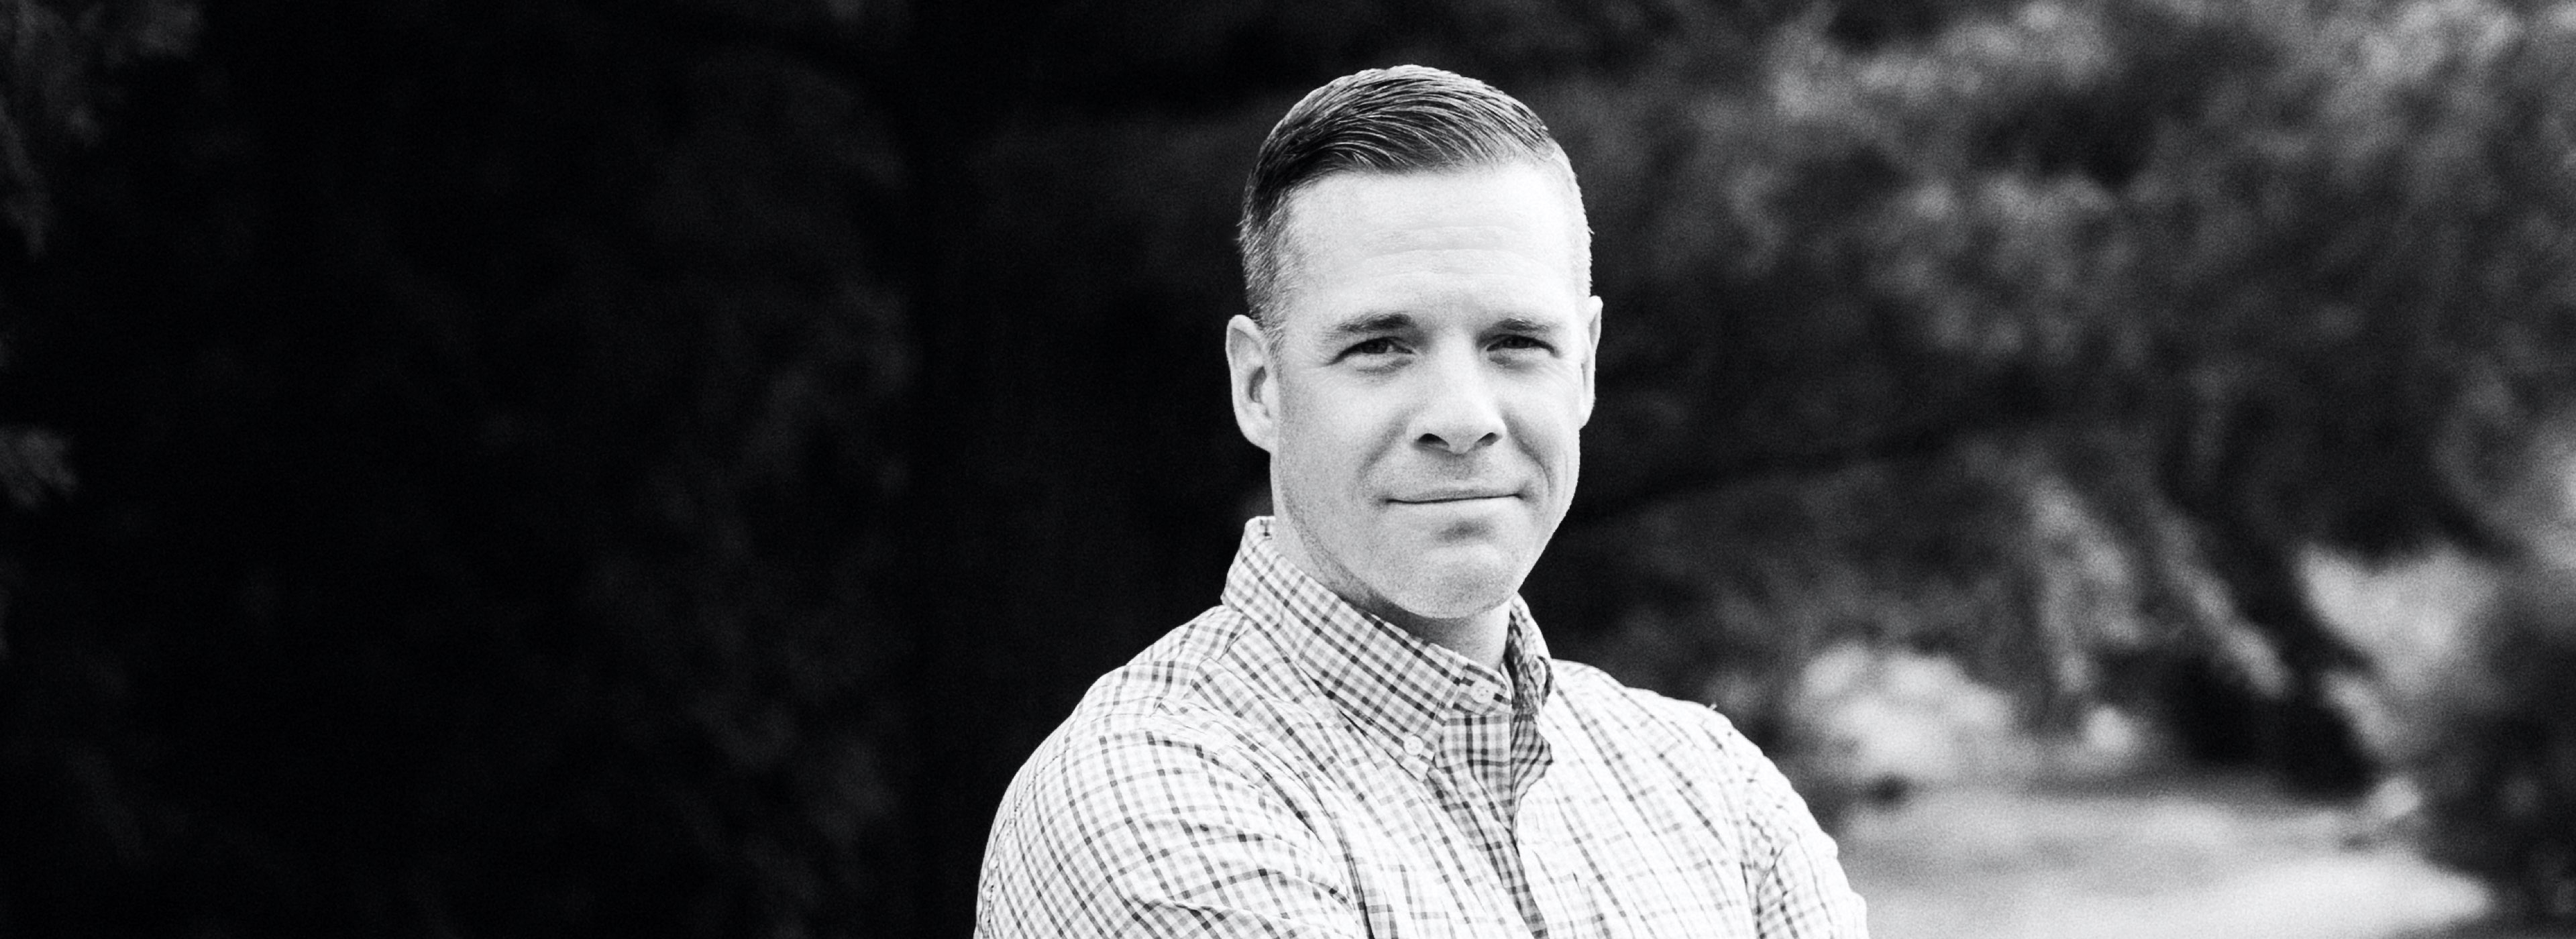
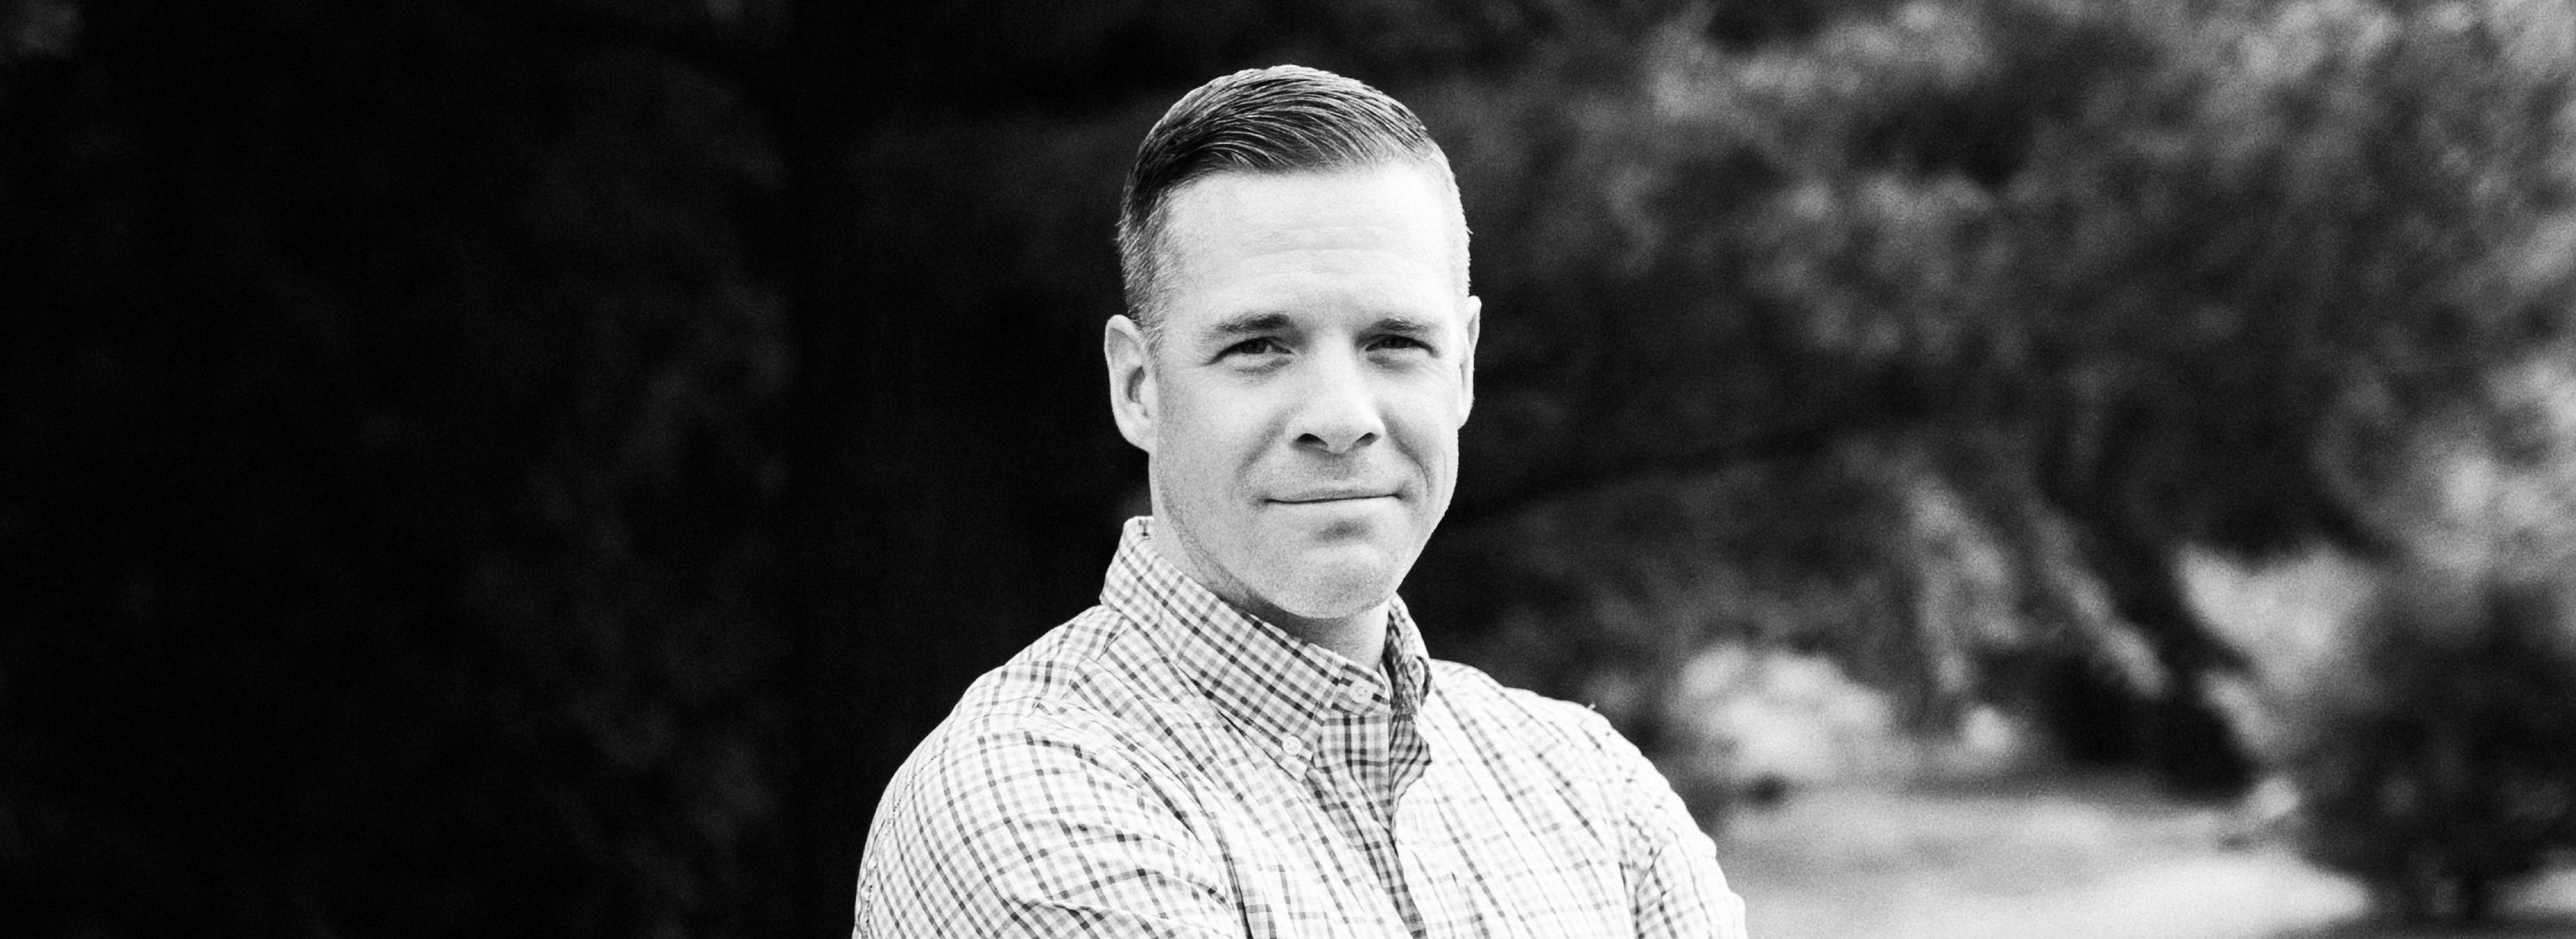
swapped hero / headshot photos

diff --git a/src/pages/index.js b/src/pages/index.js
@@ -13,21 +13,21 @@ const HomeBanner = (
   <StaticQuery
     query={graphql`
       query {
-        desktop: file(relativePath: { eq: "josh-hero.jpg" }) {
+        desktop: file(relativePath: { eq: "ahlberg-family.jpg" }) {
           childImageSharp {
             fluid(maxWidth: 1920, quality: 70) {
               ...GatsbyImageSharpFluid
             }
           }
         }
-        tablet: file(relativePath: { eq: "josh-hero-tablet.jpg" }) {
+        tablet: file(relativePath: { eq: "ahlberg-family-tablet.jpg" }) {
           childImageSharp {
             fluid(maxWidth: 768, quality: 70) {
               ...GatsbyImageSharpFluid
             }
           }
         }
-        mobile: file(relativePath: { eq: "josh-hero-mobile.jpg" }) {
+        mobile: file(relativePath: { eq: "ahlberg-family-mobile.jpg" }) {
           childImageSharp {
             fluid(maxWidth: 576, quality: 70) {
               ...GatsbyImageSharpFluid
@@ -37,24 +37,7 @@ const HomeBanner = (
       }
     `}
     render={(data) => {
-      return (
-        <Banner data={data}>
-          <Type
-            el="h1"
-            css={`
-              color: white;
-              margin-bottom: 0px;
-              text-shadow: 2px 2px 4px ${(props) => props.theme.colors.black};
-            `}
-          >
-            Sensible.
-            <br />
-            Open.
-            <br />
-            Accountable.
-          </Type>
-        </Banner>
-      );
+      return <Banner data={data}></Banner>;
     }}
   ></StaticQuery>
 );

diff --git a/src/pages/about.js b/src/pages/about.js
@@ -10,21 +10,21 @@ const AboutBanner = (
   <StaticQuery
     query={graphql`
       query {
-        desktop: file(relativePath: { eq: "ahlberg-family.jpg" }) {
+        desktop: file(relativePath: { eq: "josh-hero.jpg" }) {
           childImageSharp {
             fluid(maxWidth: 1920, quality: 70) {
               ...GatsbyImageSharpFluid
             }
           }
         }
-        tablet: file(relativePath: { eq: "ahlberg-family-tablet.jpg" }) {
+        tablet: file(relativePath: { eq: "josh-hero-tablet.jpg" }) {
           childImageSharp {
             fluid(maxWidth: 768, quality: 70) {
               ...GatsbyImageSharpFluid
             }
           }
         }
-        mobile: file(relativePath: { eq: "ahlberg-family-mobile.jpg" }) {
+        mobile: file(relativePath: { eq: "josh-hero-mobile.jpg" }) {
           childImageSharp {
             fluid(maxWidth: 576, quality: 70) {
               ...GatsbyImageSharpFluid

diff --git a/src/components/Type.js b/src/components/Type.js
@@ -142,7 +142,7 @@ Type.defaultProps = {
 };
 
 Type.propTypes = {
-  el: oneOf(['p', 'h1', 'h2', 'h3', 'h4', 'ul', 'blockquote']).isRequired,
+  el: oneOf(['p', 'h1', 'h2', 'h3', 'h4', 'ul', 'ol', 'blockquote']).isRequired,
 
   /* The following are properties unique to certain elements. */
 
